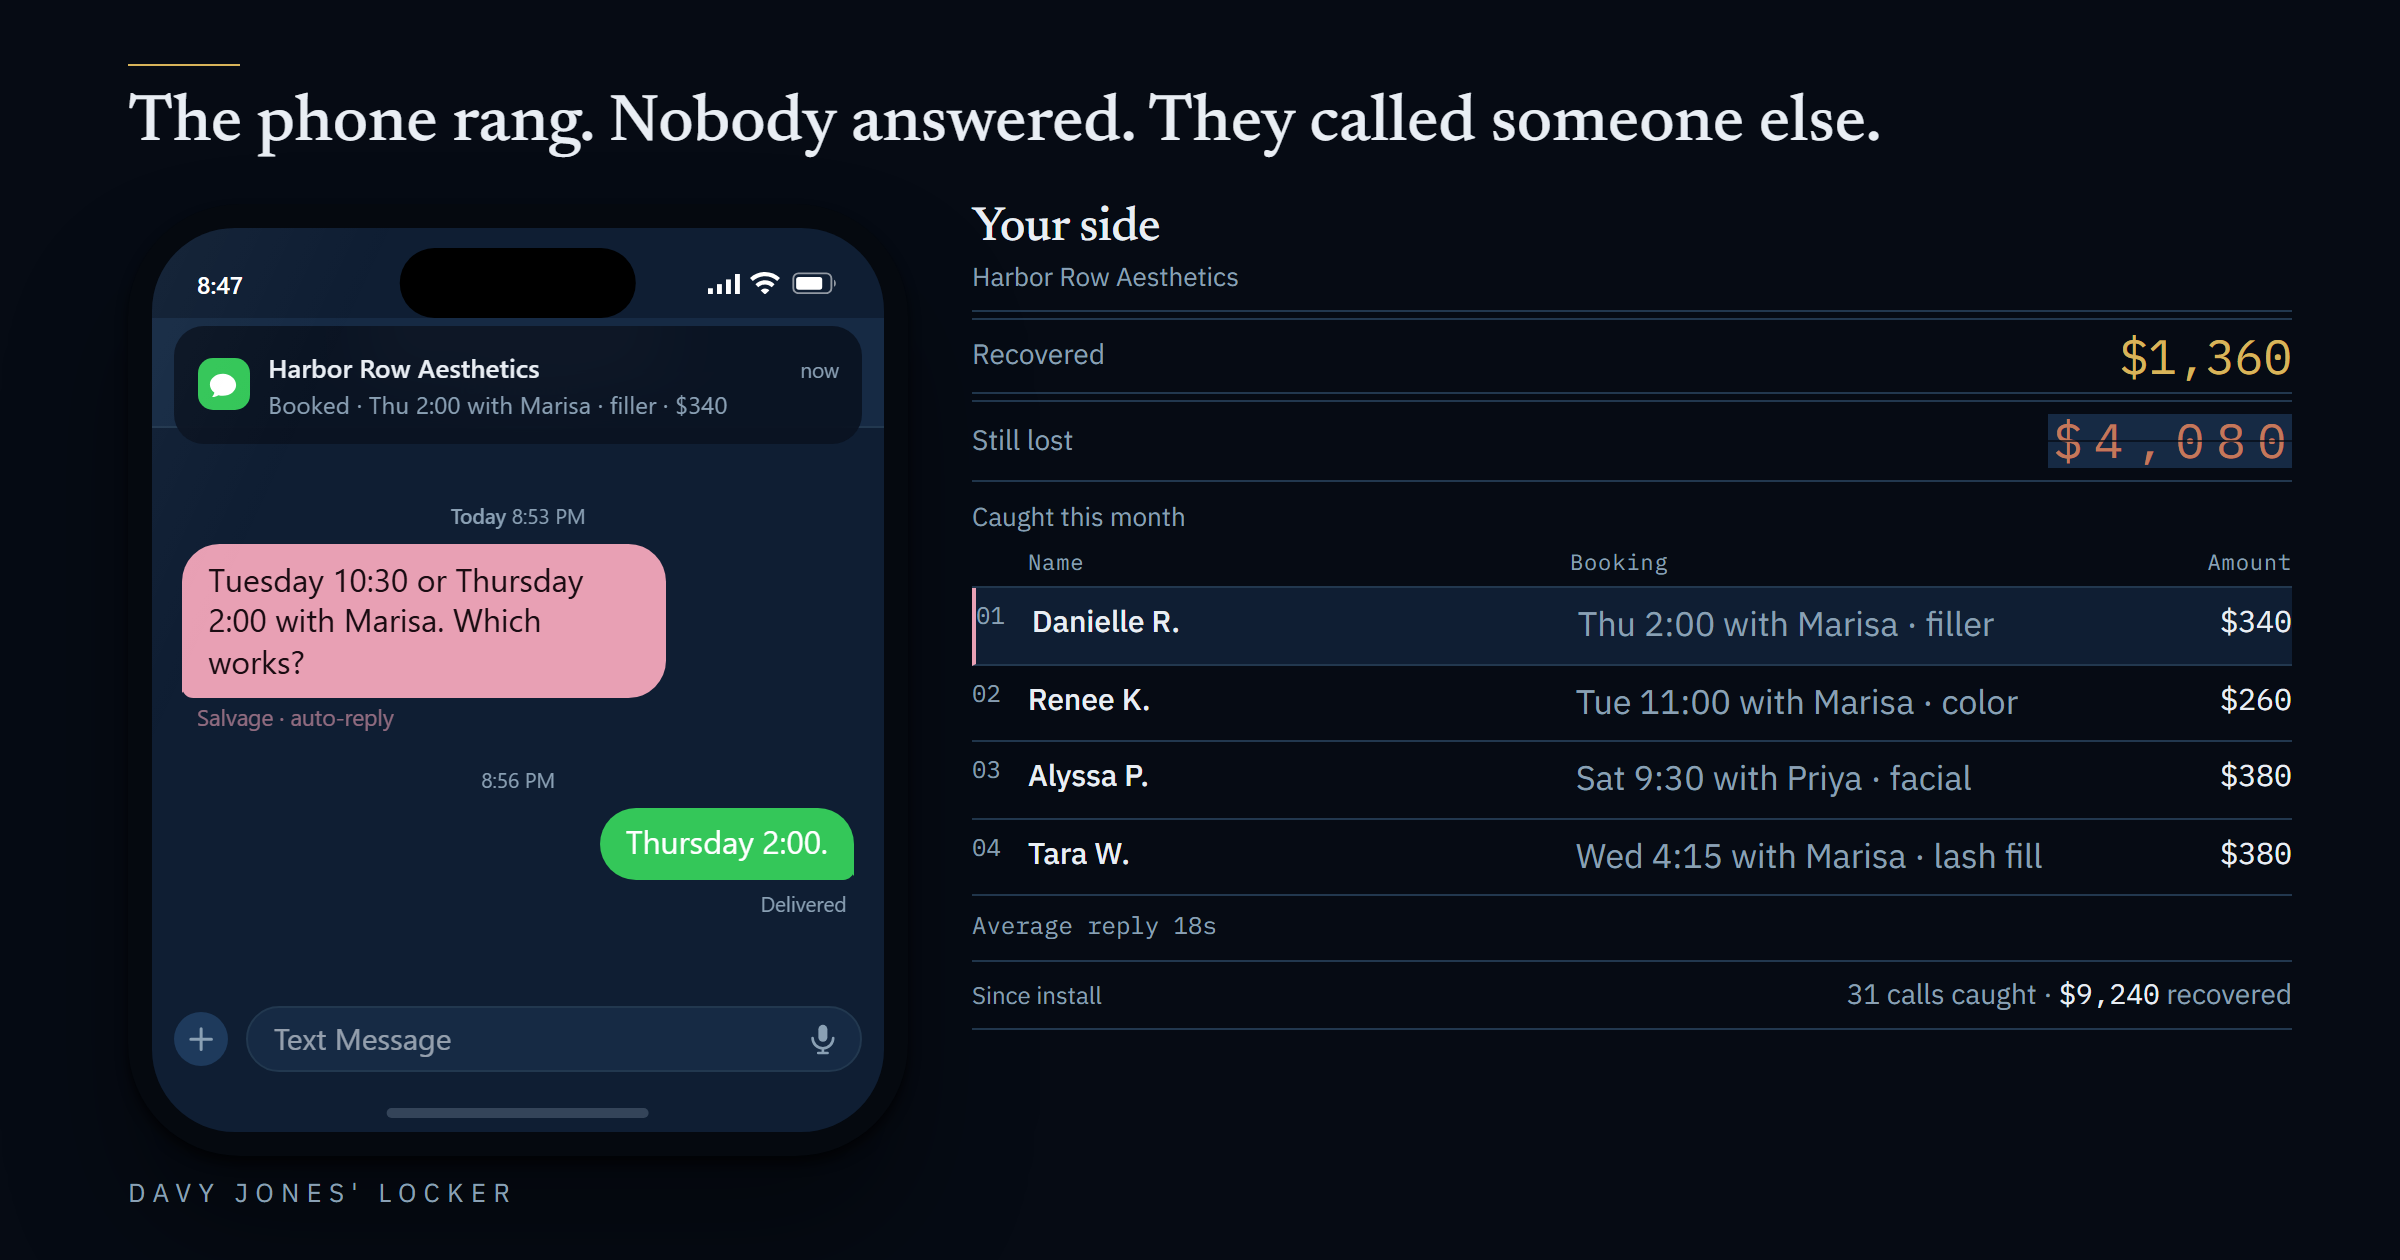
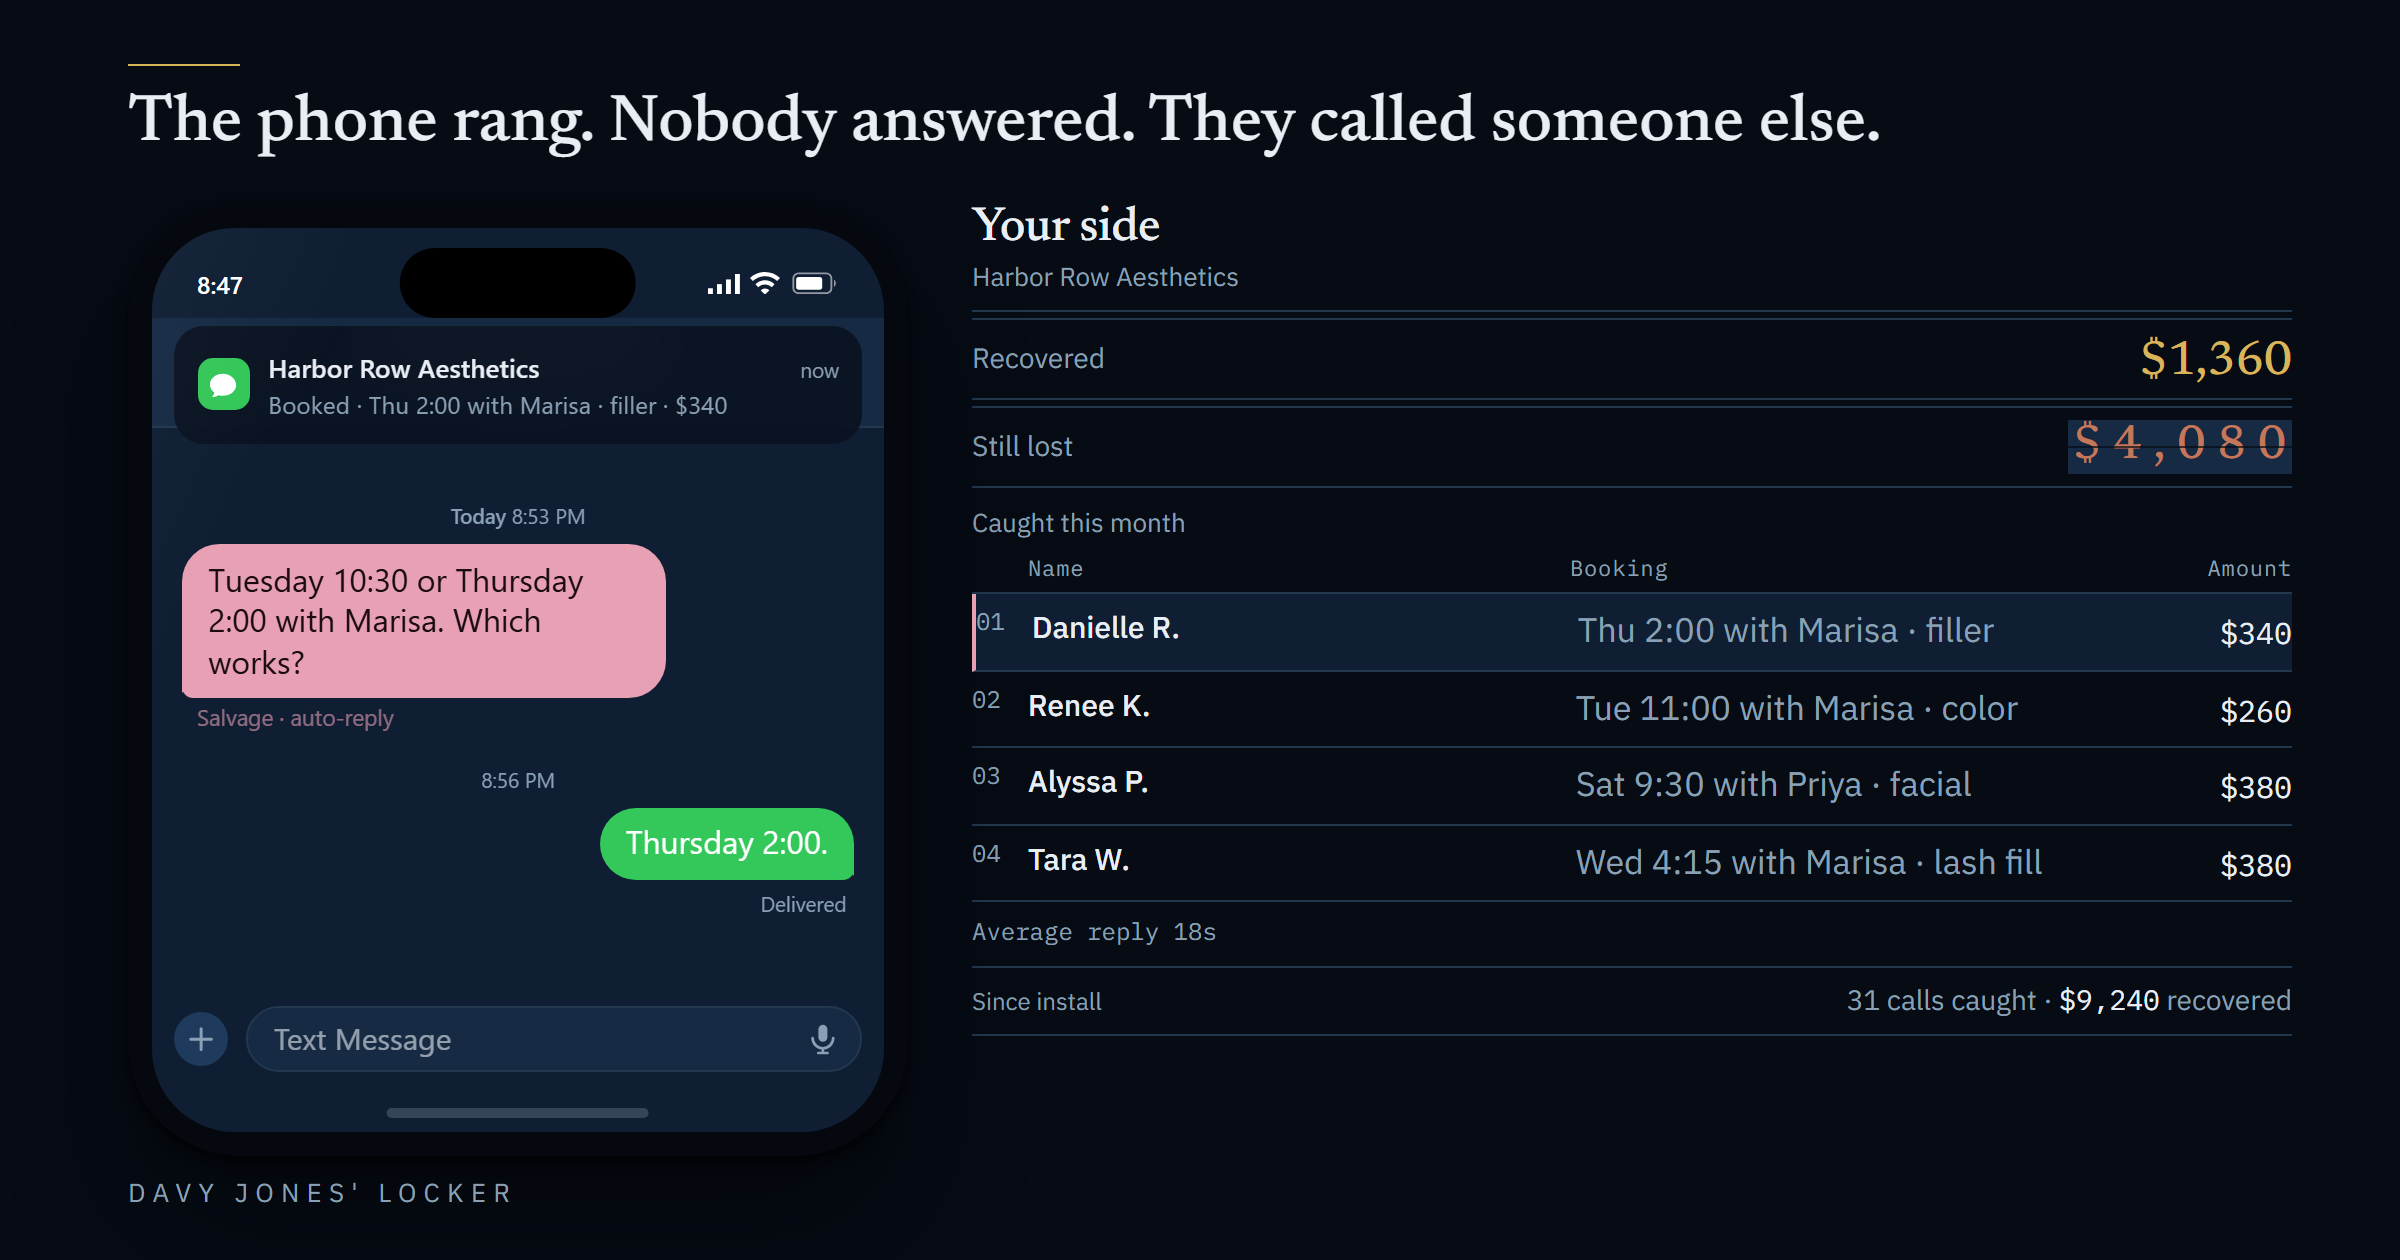
change 34: tabs, peek mask, glyph gesture, owner entry wrap, desktop stamp, OG

Changed region(s): [[0.4062, 0.2476, 0.9688, 0.8357]]

diff --git a/components/Demo.tsx b/components/Demo.tsx
@@ -927,10 +927,9 @@ function SectionMark({ kicker, title }: { kicker: string; title: string }) {
    (stroke-dashoffset, driven by the track observer). */
 function TradeGlyph({ id }: { id: string }) {
   const d: Record<string, string[]> = {
-    salon: [
-      "M6 6l20 24M26 6L6 30",
-      "M9.5 34.5a4 4 0 1 0 0-8 4 4 0 0 0 0 8zM26.5 34.5a4 4 0 1 0 0-8 4 4 0 0 0 0 8z",
-    ],
+    /* The scissors' two blades are their own groups so the gesture can
+       close them about the pivot (change 34, D). */
+    salon: ["M6 6l20 24M9.5 34.5a4 4 0 1 0 0-8 4 4 0 0 0 0 8z", "M26 6L6 30M26.5 34.5a4 4 0 1 0 0-8 4 4 0 0 0 0 8z"],
     home: [
       "M31 9.5a6.5 6.5 0 0 1-8.7 6.1L12 25.9a3.6 3.6 0 0 1-5.1-5.1L17.2 10.5A6.5 6.5 0 0 1 25.8 3l-4.3 4.3 1.6 5 5 1.6L32.4 9.6",
       "M9.2 23.6h.02",
@@ -947,8 +946,8 @@ function TradeGlyph({ id }: { id: string }) {
     <svg
       data-trade-glyph={id}
       aria-hidden="true"
-      width="48"
-      height="48"
+      width="40"
+      height="40"
       viewBox="0 0 38 38"
       fill="none"
       stroke="var(--accent, #2CC7B6)"
@@ -957,7 +956,11 @@ function TradeGlyph({ id }: { id: string }) {
       strokeLinejoin="round"
     >
       {paths.map((p, i) => (
-        <path key={i} d={p} />
+        /* Each path is its own gesture unit: the scissors move as two
+           blades about the pivot, every other glyph as one body. */
+        <g key={i} data-gesture={i} style={{ transformOrigin: "16px 30px", transformBox: "fill-box" }}>
+          <path d={p} />
+        </g>
       ))}
     </svg>
   );
@@ -1441,13 +1444,17 @@ export default function Demo({
       const io = new IntersectionObserver(
         (entries) => {
           entries.forEach((e) => {
+            /* change 34 (B): a panel less than 40% into view shows GROUND
+               only — its content fades out. Same observer, one more
+               threshold; the peek never needs a clock of its own. */
+            (e.target as HTMLElement).dataset.peek = e.intersectionRatio >= 0.4 ? "shown" : "hidden";
             if (e.intersectionRatio >= 0.6) {
               const i = panels.indexOf(e.target as HTMLElement);
               if (i >= 0) onPanel(i, e.target as HTMLElement);
             }
           });
         },
-        { root: track, threshold: 0.6 },
+        { root: track, threshold: [0.4, 0.6] },
       );
       panels.forEach((p) => io.observe(p));
       panelIOs.push(io);
@@ -1620,6 +1627,39 @@ export default function Demo({
     if (window.matchMedia("(prefers-reduced-motion: reduce)").matches) return;
     svg.setAttribute("data-drawn", "pending");
     requestAnimationFrame(() => requestAnimationFrame(() => svg.setAttribute("data-drawn", "run")));
+    /* change 34 (D): ONE gesture, 400ms after the 600ms draw completes.
+       WAAPI carries its own delay, so this needs no timer and no CSS loop;
+       every keyframe list returns to identity. */
+    const units = [...svg.querySelectorAll<SVGGElement>("[data-gesture]")];
+    const KEY: Record<string, (i: number) => Keyframe[]> = {
+      salon: (i) => [
+        { transform: "rotate(0deg)" },
+        { transform: `rotate(${i === 0 ? -12 : 12}deg)`, offset: 0.5 },
+        { transform: "rotate(0deg)" },
+      ],
+      home: () => [
+        { transform: "rotate(0deg)" },
+        { transform: "rotate(-18deg)", offset: 0.5 },
+        { transform: "rotate(0deg)" },
+      ],
+      dental: () => [
+        { transform: "translateY(0px)" },
+        { transform: "translateY(-6px)", offset: 0.45 },
+        { transform: "translateY(1.15px)", offset: 0.75 },
+        { transform: "translateY(0px)" },
+      ],
+      other: () => [
+        { transform: "rotate(0deg)" },
+        { transform: "rotate(8deg)", offset: 0.2 },
+        { transform: "rotate(-8deg)", offset: 0.45 },
+        { transform: "rotate(8deg)", offset: 0.7 },
+        { transform: "rotate(0deg)" },
+      ],
+    };
+    const frames = KEY[p.id] ?? KEY.other;
+    units.forEach((u, i) =>
+      u.animate(frames(i), { duration: 400, delay: 1000, easing: "ease-in-out", fill: "none" }),
+    );
   }, [yoursPanel, presetList]);
 
   /* change 30 (G5): the math roll fires on section 4's FIRST entry —
@@ -2038,7 +2078,7 @@ export default function Demo({
       <section data-section="save" data-entry-fx={fxReady ? (entered[1] ? "run" : "pending") : undefined}>
         <SectionMark {...COPY.sections.save} />
 
-        <div className="relative z-10 mx-auto flex h-full w-full max-w-[1200px] flex-col pb-4 pl-6 pr-14 pt-[76px] min-[1100px]:max-w-[1240px] min-[1100px]:px-12 min-[1100px]:pb-6 min-[1100px]:pt-[84px]">
+        <div className="relative z-10 mx-auto flex h-full w-full max-w-[1200px] flex-col pb-4 pl-6 pr-14 pt-[60px] min-[1100px]:max-w-[1240px] min-[1100px]:px-12 min-[1100px]:pb-6 min-[1100px]:pt-[84px]">
           <div
             data-save-grid
             className="flex min-h-0 w-full flex-1 flex-col min-[1100px]:grid min-[1100px]:grid-cols-[42fr_58fr] min-[1100px]:grid-rows-[auto_minmax(0,1fr)] min-[1100px]:items-start min-[1100px]:gap-x-12"
@@ -2173,7 +2213,7 @@ export default function Demo({
           {/* change 33 (D1/D3): the tab strip is the switcher's label —
               four trades under the folio, the active one accented and
               underlined; the swipe cue sits directly beneath it. */}
-          <div data-tabs data-client-world role="tablist" aria-label={COPY.a11y.panelDot} className="col-span-full mb-2 flex shrink-0 flex-nowrap items-center gap-x-6 overflow-x-auto [scrollbar-width:none] [&::-webkit-scrollbar]:hidden min-[1100px]:col-span-2 min-[1100px]:flex-wrap min-[1100px]:overflow-visible">
+          <div data-tabs data-client-world role="tablist" aria-label={COPY.a11y.panelDot} className="col-span-full mb-2 flex shrink-0 flex-nowrap items-center gap-x-5 min-[1100px]:col-span-2 min-[1100px]:gap-x-6">
             {presetList.map((p, i) => (
               <button
                 key={p.id}
@@ -2189,7 +2229,7 @@ export default function Demo({
                     : "border-b-transparent text-muted hover:text-ink")
                 }
               >
-                {p.label}
+                {COPY.tabs[p.id as keyof typeof COPY.tabs] ?? p.label}
               </button>
             ))}
           </div>
@@ -2283,6 +2323,10 @@ export default function Demo({
                     className="flex min-h-0 flex-col justify-start min-[1100px]:h-full"
                     style={{ "--accent": p.accent, "--accent-soft": p.accentSoft, "--accent-ink": p.accentInk } as CSSProperties}
                   >
+                    <div data-panel-content className="flex min-h-0 flex-col">
+                    {/* change 34 (C): the glyph's right edge lands on the
+                        content column's right edge, top-aligned with the
+                        label — inside the column, never in the peek. */}
                     <div className="flex items-start justify-between gap-3">
                       <p data-panel-label className="w-fit font-display text-[28px] font-medium leading-[1.02] tracking-[-0.01em] text-[var(--accent,#E9EEF4)] min-[1100px]:text-[44px]">{p.label}</p>
                       <TradeGlyph id={p.id} />
@@ -2316,8 +2360,13 @@ export default function Demo({
                         </span>
                       </div>
                     </div>
+                    </div>
                   </div>
                 ))}
+                {/* change 34 (E): trailing peek-width space, so the LAST
+                    panel can still snap flush to the spine — without it the
+                    track runs out of scroll and rests ~19px short. */}
+                <div aria-hidden="true" data-track-tail className="h-full shrink-0 basis-[6%] min-[1100px]:hidden" />
               </div>
             </div>
 

diff --git a/components/Ledger.tsx b/components/Ledger.tsx
@@ -144,10 +144,10 @@ export default function Ledger({
       <span data-announce-recovered aria-live="polite" className="sr-only" />
       <span data-announce-leak aria-live="polite" className="sr-only" />
 
-      <p data-ink className={`text-[13px] text-muted ${compact ? "mt-2" : "mt-3"}`}>{L.caughtLabel}</p>
+      <p data-ink className={`text-[13px] text-muted ${compact ? "mt-2" : "mt-2"}`}>{L.caughtLabel}</p>
 
       {/* D4/D5: the table — gutter line numbers, ruled column heads. */}
-      <div className={compact ? "mt-1" : "mt-1.5"}>
+      <div className={compact ? "mt-1" : "mt-1"}>
         <div
           data-ink
           data-col-heads
@@ -193,7 +193,7 @@ export default function Ledger({
       {/* Since-install: the ledger's LAST ruled row (change 18, C2). */}
       <div
         data-ink
-        className={`flex items-baseline justify-between gap-3 border-b border-t border-line ${compact ? "mt-2 py-1.5" : "mt-2.5 py-2"}`}
+        className={`flex items-baseline justify-between gap-3 border-b border-t border-line ${compact ? "mt-2 py-1.5" : "mt-1.5 py-1.5"}`}
       >
         <p className="text-[12px] text-muted">{L.sinceLabel}</p>
         <p data-since-strip className={`text-muted ${compact ? "text-[14px]" : "text-[13px] min-[1100px]:text-[14px]"}`}>
@@ -254,7 +254,7 @@ function CaughtRow({
       <div data-caught-detail={index} className={`min-w-0 truncate text-muted max-[599.98px]:whitespace-normal ${compact ? "text-[17px]" : "text-[12px]"}`}>
         {entry.detail}
       </div>
-      <div data-caught-amount={index} data-figure="data" className={`relative text-right text-ink ${compact ? "text-[15px]" : "text-[13px] min-[1100px]:text-[14px]"}`}>
+      <div data-caught-amount={index} data-figure="data" className={`relative text-right text-ink min-[600px]:self-end ${compact ? "text-[15px]" : "text-[13px] min-[1100px]:text-[14px]"}`}>
         {usd(entry.amount)}
         {/* change 33 (C3): the stamp sits ABOVE this cell, right-aligned to
             it, bottom edge 4px clear of the figure's top — it certifies the
@@ -263,7 +263,7 @@ function CaughtRow({
           <span
             data-stamp
             data-figure="data"
-            className="absolute bottom-[calc(100%+4px)] right-0 inline-block whitespace-nowrap rounded-[4px] border border-[var(--accent,#2CC7B6)] bg-transparent px-1.5 text-[11px] tracking-[0.12em] text-[var(--accent,#74E9DC)] min-[600px]:bottom-auto min-[600px]:top-[-4px] min-[600px]:right-[-24px]"
+            className="absolute bottom-[calc(100%+4px)] right-0 inline-block whitespace-nowrap rounded-[4px] border border-[var(--accent,#2CC7B6)] bg-transparent px-1.5 text-[11px] tracking-[0.12em] text-[var(--accent,#74E9DC)]"
             style={{ transform: "rotate(-6deg)", opacity: 1 }}
           >
             {COPY.ledger.stamp}

diff --git a/app/globals.css b/app/globals.css
@@ -117,20 +117,28 @@ body {
   scroll-snap-align: start;
 }
 
-/* change 33 (D2): the section-3 track PEEKS — each panel is 94% wide, so
-   6% of the next panel's left edge shows at rest and the track reads as a
-   deck of trades rather than a single screen. Snap still lands the active
-   panel on the spine. */
-[data-section="yours"] [data-track] > [data-panel] {
-  flex-basis: 94%;
+/* change 34 (B/E): the peek is a MOBILE affordance — 94% panels below 1100
+   so 6% of the next panel's ground shows; full-width panels above it, where
+   the deck reads as one composed screen. scroll-padding-left is 0 at every
+   width so a panel's snapped left edge IS the spine. */
+[data-section="yours"] [data-track] {
+  scroll-padding-left: 0;
+}
+@media (max-width: 1099.98px) {
+  [data-section="yours"] [data-track] > [data-panel] {
+    flex-basis: 94%;
+  }
 }
 
-/* change 33 review lens: the peeking panel FADES at the track's right edge
-   instead of being sliced mid-letter. */
+/* change 34 (B): only the ACTIVE panel shows its content — the peek is the
+   next panel's slab GROUND, never a sliced fragment of its type. The
+   track's existing IntersectionObserver flips this; no second clock. */
+[data-section="yours"] [data-panel] > [data-panel-content] {
+  transition: opacity 180ms ease;
+}
 @media (max-width: 1099.98px) {
-  [data-section="yours"] [data-track] {
-    -webkit-mask-image: linear-gradient(to right, #000 86%, transparent 99%);
-    mask-image: linear-gradient(to right, #000 86%, transparent 99%);
+  [data-section="yours"] [data-panel][data-peek="hidden"] > [data-panel-content] {
+    opacity: 0;
   }
 }
 

diff --git a/components/Phone.tsx b/components/Phone.tsx
@@ -193,7 +193,7 @@ export function NotifyCard({ bizName, entry }: { bizName: string; entry: CaughtE
      no fill, no radius, no blur. Same content; the Salvage S mark keeps
      teal (a 4px square now: the log stamps, it doesn't bead). */
   return (
-    <div data-owner-entry className="border-y border-line border-l-2 border-l-[var(--accent,#2CC7B6)] py-2.5 pl-3 max-[1099.98px]:py-4">
+    <div data-owner-entry className="border-y border-line border-l-2 border-l-[var(--accent,#2CC7B6)] py-2.5 pl-3 max-[1099.98px]:py-3">
       <div className="flex items-center gap-1.5">
         <span className="flex h-5 w-5 shrink-0 items-center justify-center rounded-[4px] bg-teal">
           <span className="font-display text-[13px] font-semibold leading-none text-abyss">S</span>
@@ -203,7 +203,9 @@ export function NotifyCard({ bizName, entry }: { bizName: string; entry: CaughtE
       </div>
       {/* change 19 (B4): the entry names the CALLER — the owner reads who
           was caught, not their own shingle. */}
-      <div className="mt-1.5 truncate text-[18px] font-medium leading-snug text-ink min-[1100px]:text-[14px]">
+      {/* change 34 (F): the caller line WRAPS on mobile — two lines, no
+          ellipsis; a booking is not a place to hide words. */}
+      <div data-entry-name className="mt-1.5 whitespace-normal text-[18px] font-medium leading-snug text-ink min-[1100px]:truncate min-[1100px]:text-[14px]">
         {entry.name} · {entry.detail} · <span data-figure="data">${entry.amount}</span>
       </div>
       <div className="mt-0.5 flex items-center gap-1.5 text-[13px] leading-snug text-muted">

diff --git a/lib/client.config.ts b/lib/client.config.ts
@@ -142,6 +142,9 @@ export const COPY = {
   // change 15 (A3/A1): cues.down retired — the rail chevron is the standing
   // affordance; cues.right retired with the mobile section-2 track it
   // explained. cues.presets remains the one swipe cue.
+  // change 34 (A, APPROVED): the tab strip's own short labels — the panel
+  // headings keep the full trade names.
+  tabs: { salon: "Salon", home: "Home", dental: "Dental", other: "Other" },
   cues: {
     presets: "Swipe to change trade →",
   },
